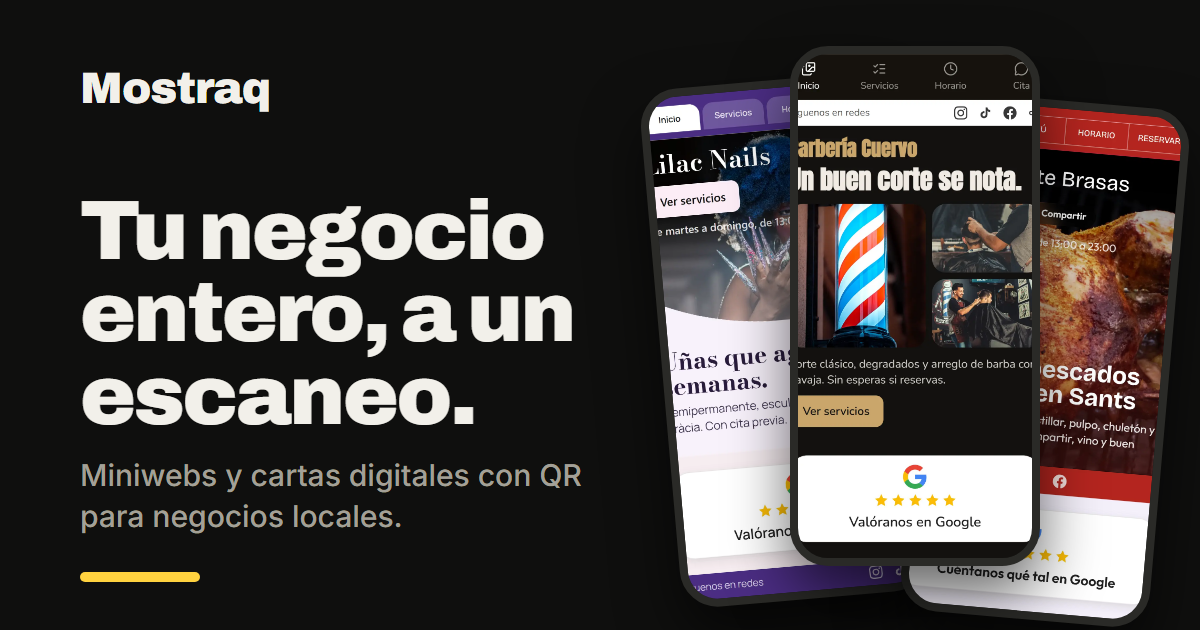
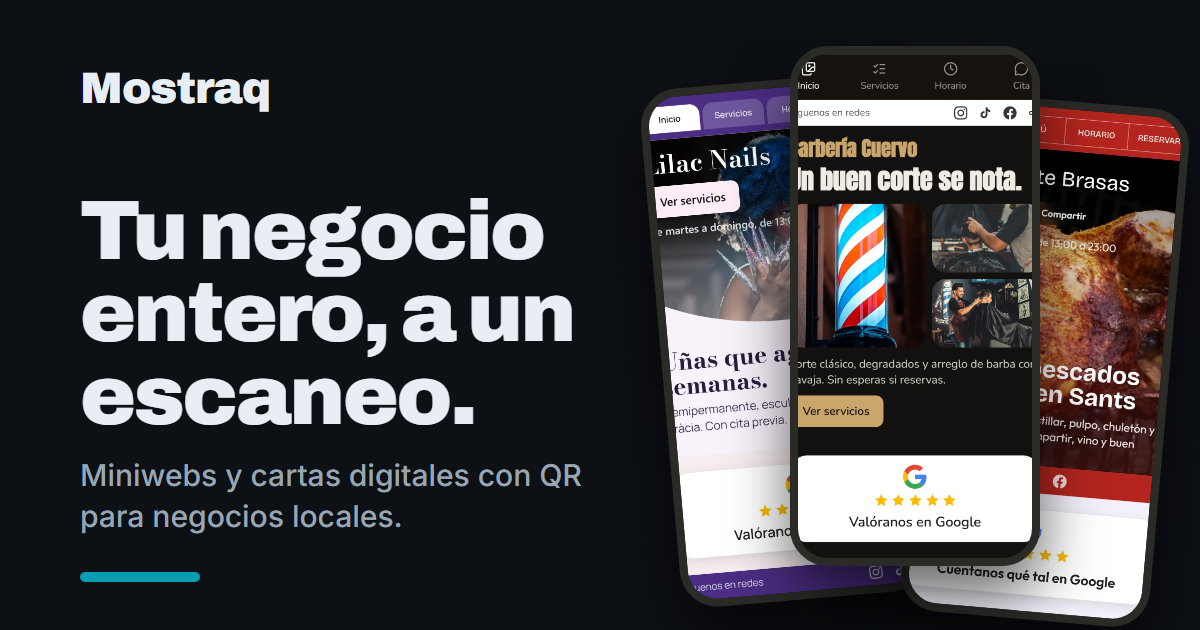
Landing con los colores de JesúsDev (azul marino y turquesa en lugar del amarillo), imagen para compartir y manifiesto al día

Changed region(s): [[0.0617, 0.7238, 0.4933, 0.8444], [0.0617, 0.9048, 0.185, 0.9349]]

diff --git a/src/styles/main.css b/src/styles/main.css
@@ -1,15 +1,15 @@
 @import "tailwindcss";
 
-/* Landing: fondo oscuro, texto claro y un acento amarillo tipo pegatina.
+/* Landing: fondo azul marino oscuro, texto claro y el turquesa de la web de JesúsDev como acento.
    papel = fondo, crema = superficies, tinta = texto, suave = texto secundario */
 @theme {
-  --color-papel: #0f0f0e;
-  --color-crema: #1b1b19;
-  --color-tinta: #f2f0ea;
-  --color-suave: #a3a097;
-  --color-linea: #2f2e2b;
-  --color-acento: #ffd23f;
-  --color-acento-oscuro: #f0c419;
+  --color-papel: #0D1015;
+  --color-crema: #171B21;
+  --color-tinta: #E8EEF3;
+  --color-suave: #98A6B3;
+  --color-linea: #26303A;
+  --color-acento: #049DB2;
+  --color-acento-oscuro: #038496;
 
   --font-titulo: "Archivo", system-ui, sans-serif;
   --font-texto: "Inter", system-ui, sans-serif;
@@ -17,7 +17,7 @@
 
 /* Editor de QR del cliente (/mi-qr): con los colores de la landing. El generador está hecho con los grises claros de
    /admin; dentro de .tema-landing esos colores pasan a ser los de la landing (fondo oscuro, superficies, líneas, texto
-   suave y el amarillo para lo elegido y los botones principales, con su texto oscuro) */
+   suave y el turquesa para lo elegido y los botones principales, con su texto oscuro) */
 .tema-landing {
   --color-white: var(--color-crema);
   --color-zinc-50: var(--color-crema);

diff --git a/src/pages/PlanesPage.jsx b/src/pages/PlanesPage.jsx
@@ -101,7 +101,7 @@ export default function PlanesPage() {
           <Titulo>{planesDetalle.seo.titulo}</Titulo>
           <p className="mt-[0.6rem] max-w-[36rem] text-[0.95rem] leading-[1.6] text-suave">{planesDetalle.seo.texto}</p>
 
-          {/* Lo incluido, con el borde amarillo para separarlo de lo demás */}
+          {/* Lo incluido, con el borde turquesa para separarlo de lo demás */}
           <div className="mt-[1.25rem] rounded-[1.1rem] bg-crema p-[1.25rem] ring-1 ring-acento/60">
             <p className="font-titulo text-[1.05rem] font-bold text-acento">{planesDetalle.seo.incluido.titulo}</p>
             {planesDetalle.seo.incluido.lista.map(i => (

diff --git a/index.html b/index.html
@@ -5,7 +5,7 @@
     <meta name="viewport" content="width=device-width, initial-scale=1.0" />
     <title>Mostraq · Miniweb y carta digital con QR para tu negocio</title>
     <meta name="description" content="Miniwebs y cartas digitales con QR para negocios locales de Barcelona: reseñas de Google, horario, WhatsApp, redes y carta con tu marca, a un escaneo." />
-    <meta name="theme-color" content="#0f0f0e" />
+    <meta name="theme-color" content="#0D1015" />
     <link rel="icon" href="/favicon.ico" sizes="any" />
     <link rel="icon" type="image/png" sizes="192x192" href="/icon-192.png" />
     <link rel="apple-touch-icon" href="/apple-touch-icon.png" />
